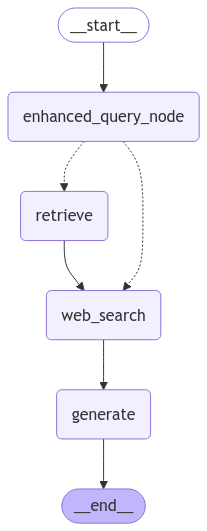
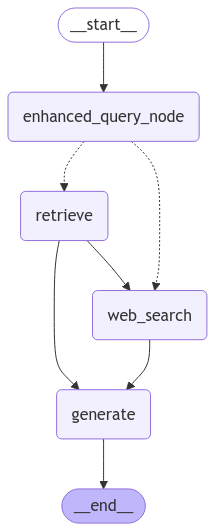
refactor(graph): streamline routing logic and enhance document retrieval process

diff --git a/app/graph/graph.py b/app/graph/graph.py
@@ -42,13 +42,35 @@ workflow.add_node(GENERATE, generate)
 
 # Graph flow
 workflow.set_entry_point(ENHANCED_QUERY_NODE)
+
+
+# Conditional logic: WEB_SEARCH skips RETRIEVE; RETRIEVE executes both RETRIEVE and WEB_SEARCH
+def route_and_handle_parallel(state: GraphState) -> dict:
+    route = route_question(state)
+    if route == WEB_SEARCH:
+        # Skip RETRIEVE and go directly to WEB_SEARCH
+        return {"next": [WEB_SEARCH]}
+    else:
+        # Execute both RETRIEVE and WEB_SEARCH in parallel
+        return {"next": [RETRIEVE, WEB_SEARCH]}
+
+
+# Add conditional edge routing
 workflow.add_conditional_edges(
     ENHANCED_QUERY_NODE,
-    route_question,
-    path_map={WEB_SEARCH: WEB_SEARCH, RETRIEVE: RETRIEVE},
+    route_and_handle_parallel,
+    path_map={RETRIEVE: RETRIEVE, WEB_SEARCH: WEB_SEARCH},
 )
+
+# Parallel Execution
+# RETRIEVE leads to WEB_SEARCH in parallel mode
 workflow.add_edge(RETRIEVE, WEB_SEARCH)
+
+# Both RETRIEVE and WEB_SEARCH lead to GENERATE
 workflow.add_edge(WEB_SEARCH, GENERATE)
+workflow.add_edge(RETRIEVE, GENERATE)
+
+# GENERATE leads to END
 workflow.add_edge(GENERATE, END)
 
 

diff --git a/app/graph/nodes/web_search.py b/app/graph/nodes/web_search.py
@@ -12,23 +12,10 @@ web_search_tool = TavilySearchResults(max_results=3)
 
 def web_search(state: GraphState) -> Dict[str, Any]:
     tavily_results = web_search_tool.invoke({"query": state.enhanced_query})
-    joined_tavily_results = "\n".join(
-        [
-            result["content"]
-            for result in tavily_results
-            if isinstance(result, dict) and "content" in result
-        ]
-    )
+    web_results = [
+        Document(page_content=result["content"])
+        for result in tavily_results
+        if "content" in result
+    ]
 
-    if joined_tavily_results:
-        web_results = Document(page_content=joined_tavily_results)
-        state.documents.append(web_results)
-
-    return state
-
-
-if __name__ == "__main__":
-    from langchain_core.messages import HumanMessage
-
-    chat_history = [HumanMessage(content="What is Agent Memory?")]
-    web_search(state={"chat_history": chat_history})
+    return {"documents": web_results}

diff --git a/app/graph/nodes/retrieve.py b/app/graph/nodes/retrieve.py
@@ -7,20 +7,5 @@ from app.ingestion import retriever
 def retrieve_documents_node(state: GraphState) -> GraphState:
     """Node for retrieving documents using the enhanced query"""
     # Updated to use invoke() instead of deprecated get_relevant_documents()
-    state.documents = retriever.invoke(state.enhanced_query)
-    return state
-
-
-# Usage example
-if __name__ == "__main__":
-    from langchain_core.messages import HumanMessage
-
-    # Create initial state
-    state = GraphState(
-        question="Tell me more about Agent Memory",
-        chat_history=[HumanMessage(content="What is Agent Memory?")],
-    )
-
-    # Execute nodes in sequence
-    state = generate_enhanced_query_node(state)
-    state = retrieve_documents_node(state)
+    documents = retriever.invoke(state.enhanced_query)
+    return {"documents": documents}

diff --git a/app/graph/nodes/generate.py b/app/graph/nodes/generate.py
@@ -6,13 +6,16 @@ from app.graph.state import GraphState
 
 
 def generate(state: GraphState) -> Dict[str, Any]:
-    state.generation = generation_chain.invoke(
+    generation = generation_chain.invoke(
         {
             "context": state.documents,
             "question": state.enhanced_query,
             "chat_history": state.chat_history or [],
         }
     )
-    state.chat_history.append(HumanMessage(content=state.question))
-    state.chat_history.append(AIMessage(content=state.generation))
-    return state
+    return {
+        "chat_history": [
+            HumanMessage(content=state.question),
+            AIMessage(content=generation),
+        ],
+    }

diff --git a/app/graph/state.py b/app/graph/state.py
@@ -9,16 +9,12 @@ class GraphState(BaseModel):
     """Represents the state of our graph.
 
     Attributes:
-        generation: LLM generation
-        is_web_search_needed: whether to add search
         documents: list of documents
         chat_history: list of chat messages
     """
 
     question: str = Field(description="Question to be answered")
     enhanced_query: Optional[str] = ""
-    generation: Optional[str] = ""
-    is_web_search_needed: Optional[bool] = False
     documents: Optional[List[Any]] = []
     chat_history: Optional[
         Annotated[Sequence[Union[HumanMessage, AIMessage]], operator.add]

diff --git a/app/graph/nodes/enhanced_query.py b/app/graph/nodes/enhanced_query.py
@@ -33,7 +33,7 @@ generate_enhanced_query = (
 
 def generate_enhanced_query_node(state: GraphState) -> GraphState:
     """Node for generating an enhanced query from question and chat history"""
-    state.enhanced_query = generate_enhanced_query.invoke(
+    enhanced_query = generate_enhanced_query.invoke(
         {"question": state.question, "chat_history": state.chat_history or []}
     )
-    return state
+    return {"enhanced_query": enhanced_query}
